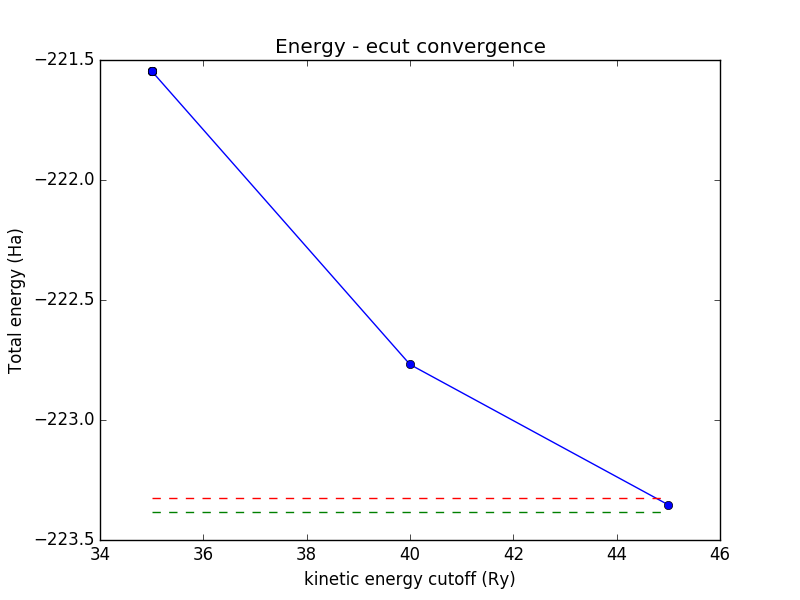
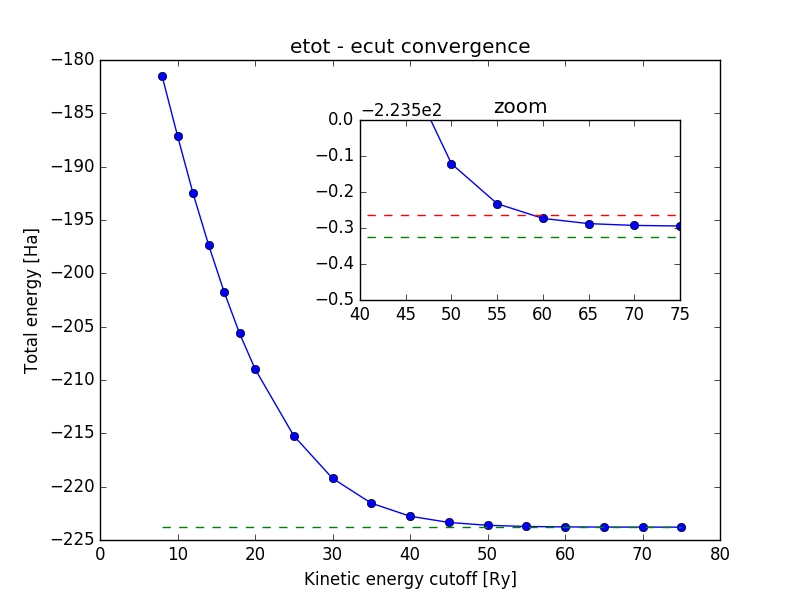
plo

diff --git a/Convergence/Processing/etot-ecut.py b/Convergence/Processing/etot-ecut.py
@@ -28,15 +28,22 @@ for f in filenames:
 			break
 
 energies =  [x*-0.5 for x in energies]	#in Hartree
+on = [energies[-1] for x in ecut]
 upper = [energies[-1]+(0.005*6) for x in ecut]
 lower = [energies[-1]-(0.005*6) for x in ecut]
 
-print energies
-print ecut
+
+plt.figure()
+plt.plot(ecut,energies,'o-',ecut,on,'--')
+plt.xlabel('Kinetic energy cutoff [Ry]')
+plt.ylabel('Total energy [Ha]')
+plt.title('etot - ecut convergence')
+plt.axes([0.45,0.5,0.4,0.3])
 plt.plot(ecut,energies,'o-',ecut,lower,'--',ecut,upper,'--')
-plt.xlabel('kinetic energy cutoff (Ry)')
-plt.ylabel('Total energy (Ha)')
-plt.title('Energy - ecut convergence')
+plt.xlim([40,75])
+plt.ylim([-224,-223.5])
+plt.title('zoom')
 plt.savefig('etot-ecut.png')
+
 plt.show()
 
